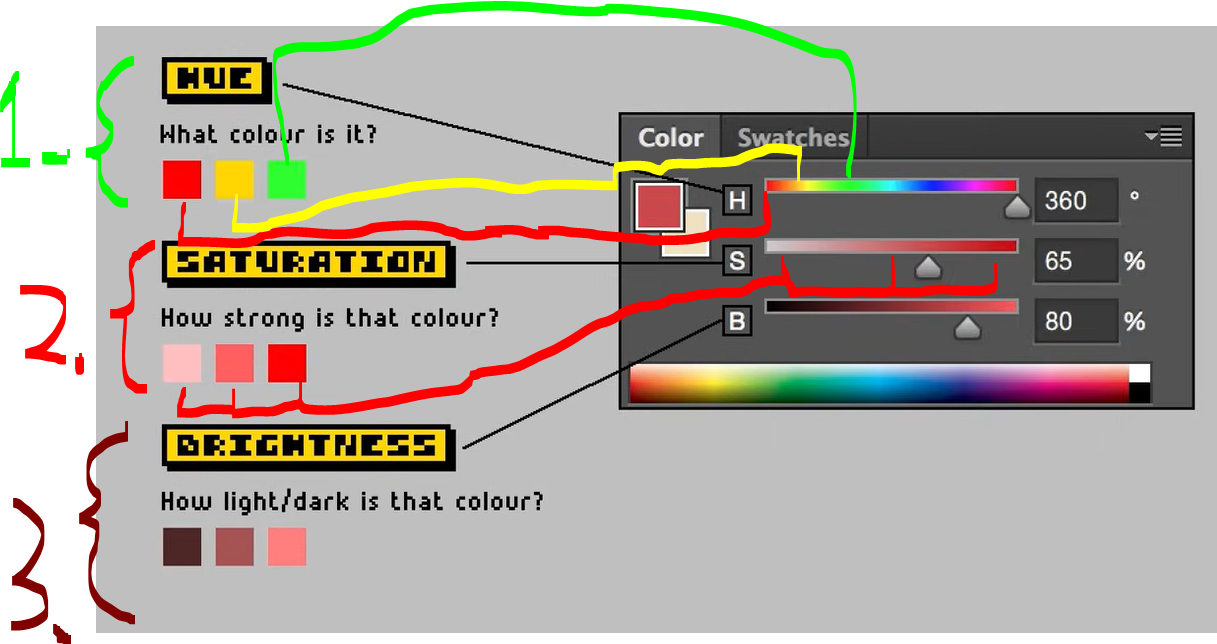
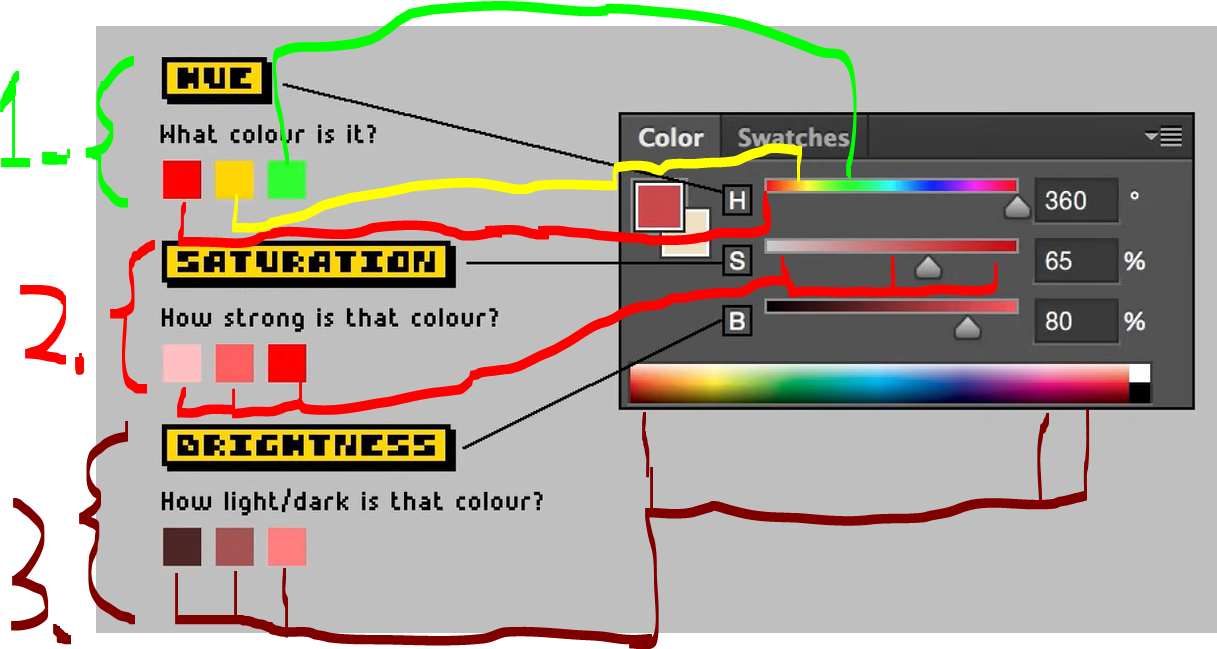
proceeeded

diff --git a/Pixel Art Environments 2D Environment Design and Animation/Section 01/README.md b/Pixel Art Environments 2D Environment Design and Animation/Section 01/README.md
@@ -6,6 +6,12 @@
 
 # Welcome To The Course.
 
+<div align="center">
+    <img src="Welcome_To_The_Course.PNG" alt="Pixel tool" width="600"/>
+</div>
+
+1. Oss, mister **Reece Geofroy**.
+2. We will be using **LibreSprite**, Basics of lightning and colors and import, export sprites and most common two main perspective how pixel art is drawn.
 # Download Software.
 
 - We will be using [LibreSprite](https://libresprite.github.io/#!/downloads).
@@ -25,13 +31,12 @@
 
 - Join the [Facebook groups](https://www.facebook.com/groups/gameartcourse).
 
-
 - Todo do this to end!
 
 # Getting Started with Libresprite.
 
-> [!TIP]
-> In this course we will be using **16x16** for **canvas**.
+> [!NOTE]
+> For this exercise we will be using **16x16** for **canvas**.
 
 <div align="center">
     <img src="New_Sprite_16px_16px.PNG" alt="Pixel tool" width="300"/>
@@ -40,14 +45,14 @@
 1. We will be having `16px` and `16px` for the canvas!
 
 <div align="center">
-    <img src="LibreSprite_Some_Tools.gif" alt="Pixel tool" width="400"/>
+    <img src="LibreSprite_Some_Tools.gif" alt="Pixel tool" width="500"/>
 </div>
 
 1. This can be opened using `tab`. This is called **timeline**! 
 2. This is **preview** tool, with the button `1:1`, its **projection** of canvas into smaller screen!
 
 <div align="center">
-    <img src="Preview_In_Action.gif" alt="Pixel tool" width="400"/>
+    <img src="Preview_In_Action.gif" alt="Pixel tool" width="500"/>
 </div>
 
 1. Main purpose of the **Preview** is to reflect the changes from canvas!
@@ -59,7 +64,7 @@
 1. **Selection tool**, hotkey `M`.
 
 <div align="center">
-    <img src="Using_Selection_Tool.gif" alt="Pixel tool" width="300"/>
+    <img src="Using_Selection_Tool.gif" alt="Pixel tool" width="400"/>
 </div>
 
 - `1.` We need to select the area!
@@ -69,7 +74,7 @@
 2. **Pencil tool**, hotkey `B`.
 
 <div align="center">
-    <img src="Using_Pencil_Tool.gif" alt="Pixel tool" width="300"/>
+    <img src="Using_Pencil_Tool.gif" alt="Pixel tool" width="400"/>
 </div>
 
 - `1.` We are using **pencil too** to draw into canvas!
@@ -78,7 +83,7 @@
 3. **Eraser tool**, hotkey `E`.
 
 <div align="center">
-    <img src="Using_Erase_Tool.gif" alt="Pixel tool" width="300"/>
+    <img src="Using_Erase_Tool.gif" alt="Pixel tool" width="400"/>
 </div>
 
 - We can **erase** things!
@@ -88,13 +93,13 @@
 - Next, how things should be saved:
 
 <div align="center">
-    <img src="Saving_As_Usable_Format.PNG" alt="Pixel tool" width="300"/>
+    <img src="Saving_As_Usable_Format.PNG" alt="Pixel tool" width="400"/>
 </div>
 
 1. One should save it as **ase sprite**, to open it as it is. This is for editing purposes!
 
 <div align="center">
-    <img src="We_Are_Exporting_The_Image_In_LibreSprite.gif" alt="Pixel tool" width="300"/>
+    <img src="We_Are_Exporting_The_Image_In_LibreSprite.gif" alt="Pixel tool" width="400"/>
 </div>
 
 1. First we **scale** the sprite, since pixel art is **tiny**. `Sprite` → `Sprite Size`.
@@ -107,8 +112,7 @@
 </div>
 
 <details>
-<summary id="Assigment 01
-" open="true" alt="Pixel tool"> <b> First assigment - my answer! </b> </summary>
+<summary id="assigment-01" open="true" alt="Pixel tool"> <b> First assigment - my answer! </b> </summary>
 
 ```yaml
 Task as text:
@@ -174,19 +178,54 @@ Draw A Simple Character.
     - You can see here **three** changes on the **color palette**!
         - Every change will a little bit darker!
 
+- Next we will be exploring the concept of **Hue shifting**!
+
+
+<p align="center">
+    <div align="center">
+        <img src="Hue_Shifting.png" alt="Pixel tool" width="300" />
+    </div>
+    <p align="center">
+        A <b>color technique</b> where, "<i>one changes the hue as values change, instead of just making color lighter and darker, can change <b>values</b> in the <b>color wheel</b></i>. <br> <br>
+        This makes the picture more <b>vibrant</b> look and better appeal!
+    </p>
+</p>
+
+> Other **explanation** would be:
+> When you make a color lighter or darker, you shouldn’t just slide it up or down in brightness (value). You should also change the color’s hue a bit.
+
+> [!NOTE]
+> 🔅**Ambient light**🔅
+> This is the **background light** that is everywhere, which is not coming form one **direct** source!
+
+
+
+- We can **explore** this using **natural light**!
+
+
+- ☀ Sunlight = warm → yellow / orange
+
+
+
+
 > [!NOTE]
 > Usually the program has some sort of this **color selection tool**!
+
+- Add here the example of when there is basic lighting technique taking place! 
 
 <div align="center">
     <img src="Color_Selection_Tools_In_General_Softwares.PNG" alt="Pixel tool" width="500" />
 </div>
 
 1. **HUE**, basically *What color it is?*
-2. **SATURATION**, basically *How strong is the color?*
-    - **Low** → `red color` + `low saturation` = `weak red color`!
-    - **High** → `red color` + `high saturation` = `weak red color`!
-3. **BRIGHTNESS**
+- **RED**, **GREEN** or **YELLOW**.
+    - Without providing any other information!
 
+2. **SATURATION**, basically *How strong is the color?*
+    - **Low** → `red color` + `low saturation` = `low virant red color`!
+    - **High** → `red color` + `high saturation` = ` very virant red color`!
+3. **BRIGHTNESS**, defines *lightness* and *darkness* how those two colors become!
+    - Ranging from full **black** and to **full color**!
 
 <div align="center">
     <img src="LibreSprite_More_Tools_Even_More.PNG" alt="Pixel tool" width="300" height="350" />
@@ -199,8 +238,7 @@ Draw A Simple Character.
 </div>
 
 <details>
-<summary id="Assigment 02
-" open="true" alt="Pixel tool"> <b> Second assigment - my answer! </b> </summary>
+<summary id="assigment-02" open="true" alt="Pixel tool"> <b> Second assigment - my answer! </b> </summary>
 
 ```yaml
 Task as text:
@@ -214,8 +252,6 @@ Task as text:
 </div>
 
 </details>
-
-
 
 # Exporting Sprite Sheets.
 
